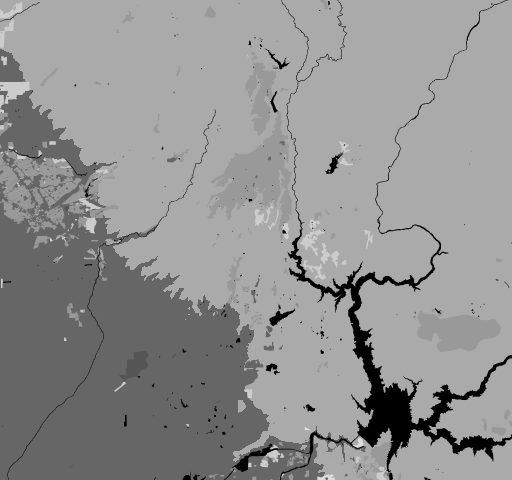
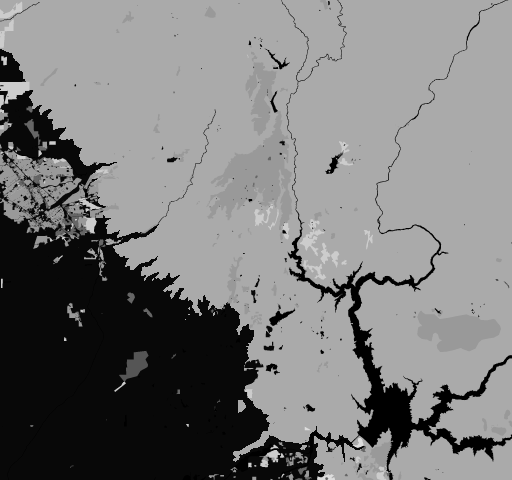
sim: the Sacramento Valley's irrigated farmland barely burns (#197) (#212)
Paradise's farmland, including the unmapped valley floor below 100 m, drops to fuel 0.05: on the extended map the Camp Fire replay ran 37 km west across orchards and rice it never crossed in 2018.

Changed region(s): [[0.0, 0.0938, 0.6875, 1.0], [0.4688, 0.5938, 0.5, 0.625], [0.3125, 0.3125, 0.3438, 0.3438]]

diff --git a/tools/osm_to_fuel.py b/tools/osm_to_fuel.py
@@ -71,8 +71,14 @@ CLASSES = [
 # that the Camp Fire burned through (its replay needs residential at 0.6 or
 # more). Superior and Louisville are irrigated lawns, streets and parking that
 # stopped the Marshall Fire: at 0.9 the replay burned 2.7x the real area, at
-# these weights 1.5x, with outline IoU from 0.19 to 0.27 (#144).
+# these weights 1.5x, with outline IoU from 0.19 to 0.27 (#144). The valley
+# floor around Chico and Oroville is irrigated orchard and rice, harvested and
+# wet by November, which the Camp Fire never crossed: at farmland 0.6 the
+# replay on the extended map ran 37 km west across it and burned 4.2x the real
+# area; at 0.05 it's 2.4x (IoU 0.21 -> 0.35 at 7.1 h). What's left is the dry
+# foothill grass above the valley (#197).
 SCENARIO_WEIGHTS = {
+    "paradise": {"farmland": 0.05},
     "marshall": {"residential": 0.25, "commercial": 0.3},
 }
 # Unmapped land below this elevation (m) is farmland, not background. OSM

diff --git a/engine/tests/test_fuel.py b/engine/tests/test_fuel.py
@@ -11,8 +11,10 @@ def test_fuel_layer_is_loaded_at_grid_size_and_varies():
     assert (s.dir / "fuel.png").exists()
     fuel = load_fuel(s)
     assert fuel.shape == (s.height, s.width)
-    # Forest-weighted, so the fire's tuning still holds; not uniform any more.
-    assert 0.8 < fuel.mean() < 1.1
+    # Forest-weighted where the fire was tuned (the print), so the tuning still
+    # holds; the irrigated valley around it is low fuel (#197).
+    x0, y0, w, h = s.print_window
+    assert 0.8 < fuel[y0:y0 + h, x0:x0 + w].mean() < 1.1
     assert fuel.std() > 0.05
     assert fuel.max() <= 1.5
 
